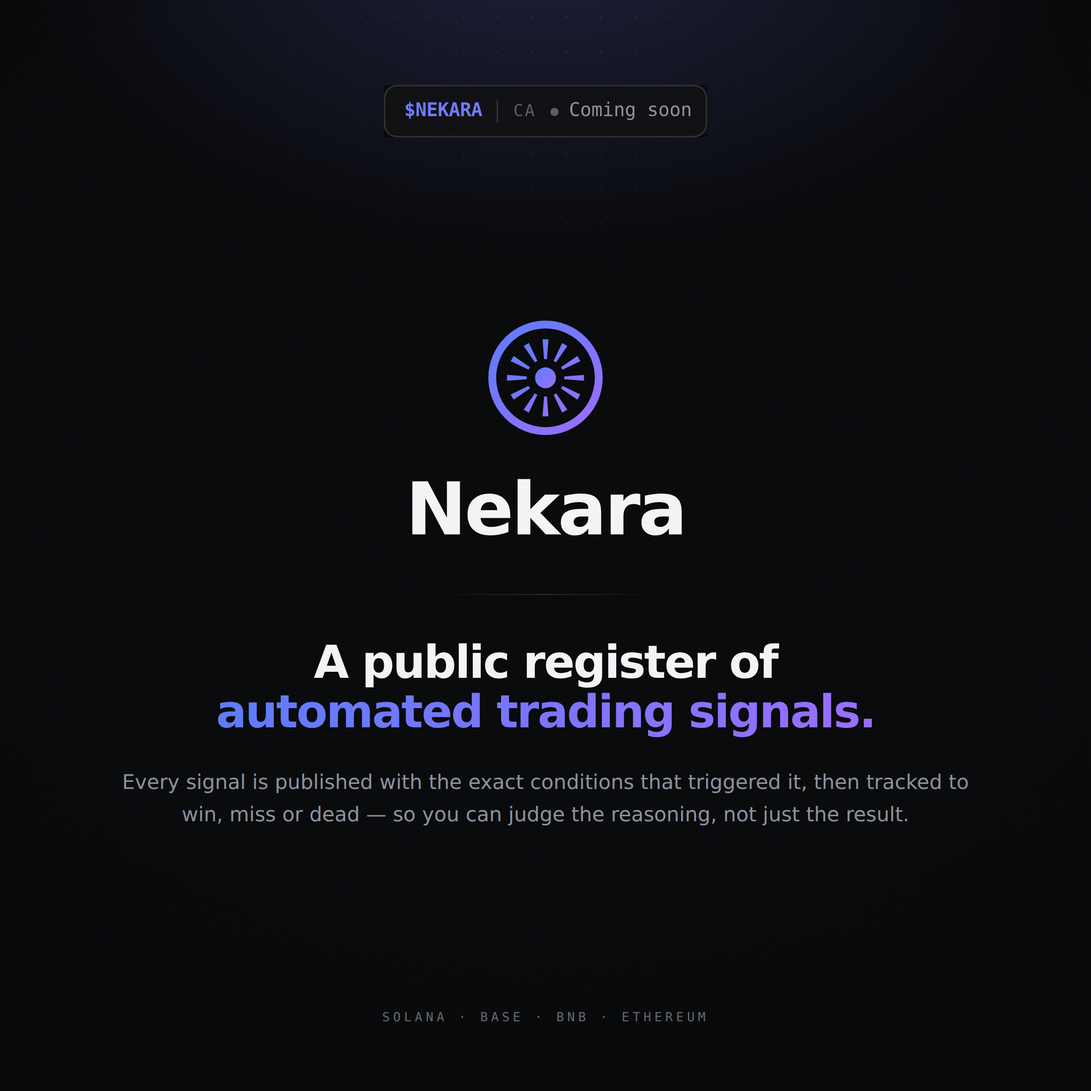
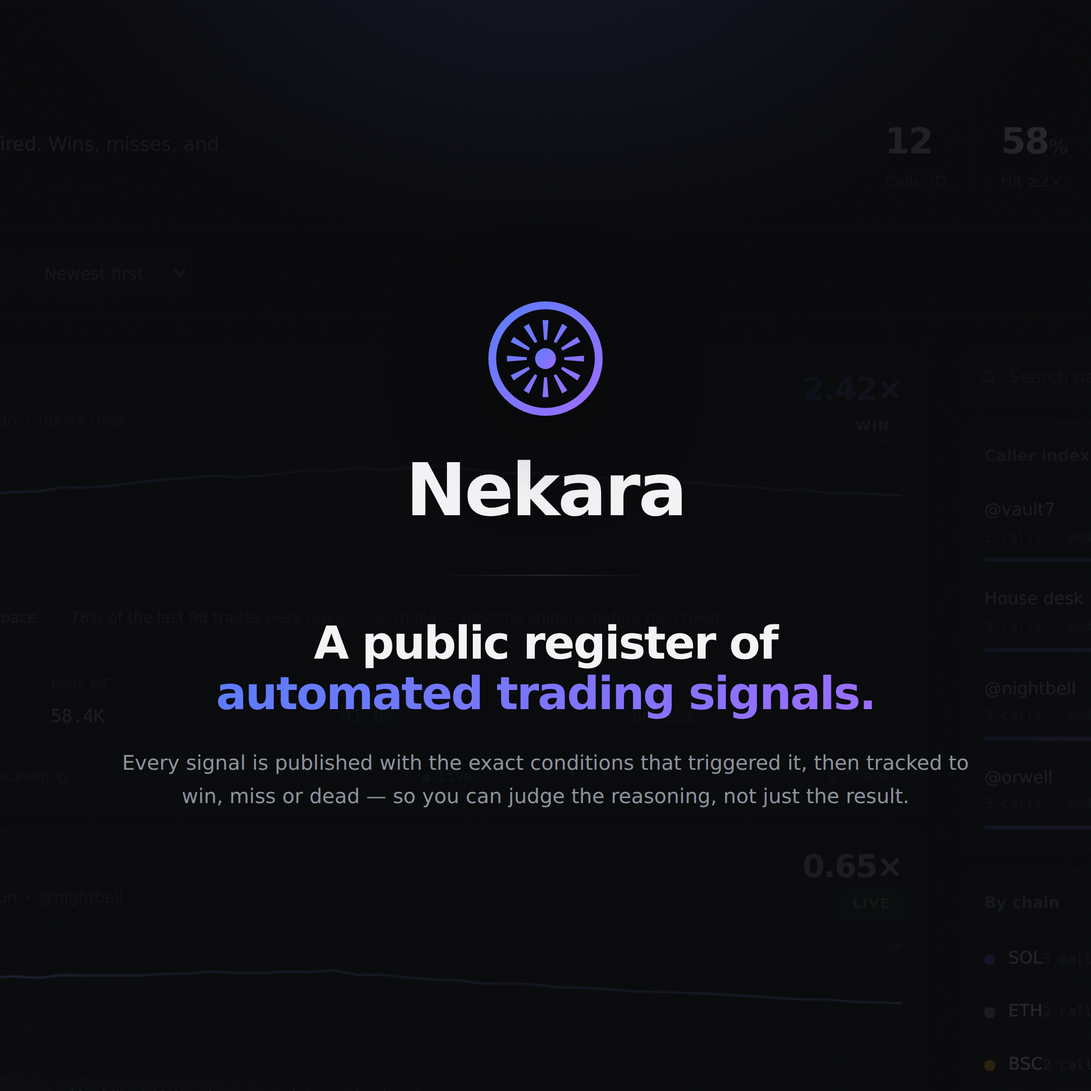
brand: the register runs behind the opening post
The first post was type on a plain ground with a status chip, a ticker and a
chain list stacked around it. All three come off, and the register itself
becomes the ground.

The crop matters: framed on the whole page, the word "Register" sat in the
corner at nearly headline weight and pulled the eye off the mark. It is now
zoomed past the page heading into the call cards, so what reads behind the
lockup is multiples, verdicts and the caller index — texture with real content
in it, and nothing in it competing.

Claude-Session: https://claude.ai/code/session_016zWz5hmUVXVKpbXpns3J9C

diff --git a/brand/banners/p0-intro-square.html b/brand/banners/p0-intro-square.html
@@ -36,17 +36,16 @@ h1,h2{font-family:var(--display);font-weight:600;letter-spacing:-.032em;line-hei
 .vig{position:absolute;inset:0;pointer-events:none;
  background:radial-gradient(125% 105% at 50% 38%,transparent 42%,rgba(0,0,0,.55))}
 </style><style>body{width:1080px;height:1080px}</style>
-<div class="aur"></div><div class="dots"></div>
+<div style="position:absolute;inset:0;background:url('file:///home/user/mintnft/brand/shots/pv-reg.png') center 58%/175% auto no-repeat"></div>
+<div style="position:absolute;inset:0;background:radial-gradient(94% 88% at 50% 50%,rgba(8,9,11,.955) 22%,rgba(8,9,11,.90) 58%,rgba(8,9,11,.74))"></div>
+<div class="aur" style="opacity:.55"></div>
 <div style="position:absolute;inset:0;padding:84px 74px 66px;
-  display:flex;flex-direction:column;align-items:center;text-align:center">
-  <img src="file:///home/user/mintnft/brand/shots/n-cabar.png" style="width:320px;display:block">
-  <div style="flex:1;display:flex;flex-direction:column;align-items:center;justify-content:center">
-    <div style="width:124px"><svg viewBox="0 0 120 120" fill="none"><defs><linearGradient id="lg" x1="0" y1="0" x2="1" y2="1"><stop stop-color="#5B7CFA"/><stop offset="1" stop-color="#9B6DFF"/></linearGradient></defs><circle cx="60" cy="60" r="51" stroke="url(#lg)" stroke-width="7.5"/><path d="M57.16 23.11L62.84 23.11L61.38 42.05L58.62 42.05ZM75.99 26.63L80.9 29.47L70.17 45.15L67.78 43.77ZM90.53 39.1L93.37 44.01L76.23 52.22L74.85 49.83ZM96.89 57.16L96.89 62.84L77.95 61.38L77.95 58.62ZM93.37 75.99L90.53 80.9L74.85 70.17L76.23 67.78ZM80.9 90.53L75.99 93.37L67.78 76.23L70.17 74.85ZM62.84 96.89L57.16 96.89L58.62 77.95L61.38 77.95ZM44.01 93.37L39.1 90.53L49.83 74.85L52.22 76.23ZM29.47 80.9L26.63 75.99L43.77 67.78L45.15 70.17ZM23.11 62.84L23.11 57.16L42.05 58.62L42.05 61.38ZM26.63 44.01L29.47 39.1L45.15 49.83L43.77 52.22ZM39.1 29.47L44.01 26.63L52.22 43.77L49.83 45.15Z" fill="url(#lg)"/><circle cx="60" cy="60" r="10" fill="url(#lg)"/></svg></div>
-    <div style="font-family:var(--display);font-weight:600;letter-spacing:-.03em;
-      font-size:72px;margin-top:26px">Nekara</div>
-    <div class="rule" style="width:220px;margin:42px 0"></div>
-    <h1 style="font-size:45px;line-height:1.1">A public register of<br><span class="grad-tx">automated trading signals.</span></h1>
-    <p style="font-size:20px;line-height:1.64;color:var(--tx-2);max-width:860px;margin-top:28px">Every signal is published with the exact conditions that triggered it, then tracked to win, miss or dead — so you can judge the reasoning, not just the result.</p>
-  </div>
-  <div class="eyebrow">Solana · Base · BNB · Ethereum</div>
-</div><div class="vig"></div><div class="grain"></div>
+  display:flex;flex-direction:column;align-items:center;justify-content:center;text-align:center">
+  <div style="width:124px;filter:drop-shadow(0 18px 46px rgba(0,0,0,.85))"><svg viewBox="0 0 120 120" fill="none"><defs><linearGradient id="lg" x1="0" y1="0" x2="1" y2="1"><stop stop-color="#5B7CFA"/><stop offset="1" stop-color="#9B6DFF"/></linearGradient></defs><circle cx="60" cy="60" r="51" stroke="url(#lg)" stroke-width="7.5"/><path d="M57.16 23.11L62.84 23.11L61.38 42.05L58.62 42.05ZM75.99 26.63L80.9 29.47L70.17 45.15L67.78 43.77ZM90.53 39.1L93.37 44.01L76.23 52.22L74.85 49.83ZM96.89 57.16L96.89 62.84L77.95 61.38L77.95 58.62ZM93.37 75.99L90.53 80.9L74.85 70.17L76.23 67.78ZM80.9 90.53L75.99 93.37L67.78 76.23L70.17 74.85ZM62.84 96.89L57.16 96.89L58.62 77.95L61.38 77.95ZM44.01 93.37L39.1 90.53L49.83 74.85L52.22 76.23ZM29.47 80.9L26.63 75.99L43.77 67.78L45.15 70.17ZM23.11 62.84L23.11 57.16L42.05 58.62L42.05 61.38ZM26.63 44.01L29.47 39.1L45.15 49.83L43.77 52.22ZM39.1 29.47L44.01 26.63L52.22 43.77L49.83 45.15Z" fill="url(#lg)"/><circle cx="60" cy="60" r="10" fill="url(#lg)"/></svg></div>
+  <div style="font-family:var(--display);font-weight:600;letter-spacing:-.03em;
+    font-size:72px;margin-top:26px">Nekara</div>
+  <div class="rule" style="width:220px;margin:42px 0"></div>
+  <h1 style="font-size:45px;line-height:1.1">A public register of<br><span class="grad-tx">automated trading signals.</span></h1>
+  <p style="font-size:20px;line-height:1.64;color:var(--tx-2);max-width:860px;margin-top:28px">Every signal is published with the exact conditions that triggered it, then tracked to win, miss or dead — so you can judge the reasoning, not just the result.</p>
+</div>
+<div class="grain"></div>

diff --git a/brand/banners/p0-intro.html b/brand/banners/p0-intro.html
@@ -36,17 +36,16 @@ h1,h2{font-family:var(--display);font-weight:600;letter-spacing:-.032em;line-hei
 .vig{position:absolute;inset:0;pointer-events:none;
  background:radial-gradient(125% 105% at 50% 38%,transparent 42%,rgba(0,0,0,.55))}
 </style><style>body{width:1600px;height:900px}</style>
-<div class="aur"></div><div class="dots"></div>
+<div style="position:absolute;inset:0;background:url('file:///home/user/mintnft/brand/shots/pv-reg.png') center 58%/138% auto no-repeat"></div>
+<div style="position:absolute;inset:0;background:radial-gradient(94% 88% at 50% 50%,rgba(8,9,11,.955) 22%,rgba(8,9,11,.90) 58%,rgba(8,9,11,.74))"></div>
+<div class="aur" style="opacity:.55"></div>
 <div style="position:absolute;inset:0;padding:72px 74px 58px;
-  display:flex;flex-direction:column;align-items:center;text-align:center">
-  <img src="file:///home/user/mintnft/brand/shots/n-cabar.png" style="width:300px;display:block">
-  <div style="flex:1;display:flex;flex-direction:column;align-items:center;justify-content:center">
-    <div style="width:116px"><svg viewBox="0 0 120 120" fill="none"><defs><linearGradient id="lg" x1="0" y1="0" x2="1" y2="1"><stop stop-color="#5B7CFA"/><stop offset="1" stop-color="#9B6DFF"/></linearGradient></defs><circle cx="60" cy="60" r="51" stroke="url(#lg)" stroke-width="7.5"/><path d="M57.16 23.11L62.84 23.11L61.38 42.05L58.62 42.05ZM75.99 26.63L80.9 29.47L70.17 45.15L67.78 43.77ZM90.53 39.1L93.37 44.01L76.23 52.22L74.85 49.83ZM96.89 57.16L96.89 62.84L77.95 61.38L77.95 58.62ZM93.37 75.99L90.53 80.9L74.85 70.17L76.23 67.78ZM80.9 90.53L75.99 93.37L67.78 76.23L70.17 74.85ZM62.84 96.89L57.16 96.89L58.62 77.95L61.38 77.95ZM44.01 93.37L39.1 90.53L49.83 74.85L52.22 76.23ZM29.47 80.9L26.63 75.99L43.77 67.78L45.15 70.17ZM23.11 62.84L23.11 57.16L42.05 58.62L42.05 61.38ZM26.63 44.01L29.47 39.1L45.15 49.83L43.77 52.22ZM39.1 29.47L44.01 26.63L52.22 43.77L49.83 45.15Z" fill="url(#lg)"/><circle cx="60" cy="60" r="10" fill="url(#lg)"/></svg></div>
-    <div style="font-family:var(--display);font-weight:600;letter-spacing:-.03em;
-      font-size:66px;margin-top:26px">Nekara</div>
-    <div class="rule" style="width:220px;margin:36px 0"></div>
-    <h1 style="font-size:44px;line-height:1.1">A public register of<br><span class="grad-tx">automated trading signals.</span></h1>
-    <p style="font-size:19px;line-height:1.64;color:var(--tx-2);max-width:830px;margin-top:28px">Every signal is published with the exact conditions that triggered it, then tracked to win, miss or dead — so you can judge the reasoning, not just the result.</p>
-  </div>
-  <div class="eyebrow">Solana · Base · BNB · Ethereum</div>
-</div><div class="vig"></div><div class="grain"></div>
+  display:flex;flex-direction:column;align-items:center;justify-content:center;text-align:center">
+  <div style="width:116px;filter:drop-shadow(0 18px 46px rgba(0,0,0,.85))"><svg viewBox="0 0 120 120" fill="none"><defs><linearGradient id="lg" x1="0" y1="0" x2="1" y2="1"><stop stop-color="#5B7CFA"/><stop offset="1" stop-color="#9B6DFF"/></linearGradient></defs><circle cx="60" cy="60" r="51" stroke="url(#lg)" stroke-width="7.5"/><path d="M57.16 23.11L62.84 23.11L61.38 42.05L58.62 42.05ZM75.99 26.63L80.9 29.47L70.17 45.15L67.78 43.77ZM90.53 39.1L93.37 44.01L76.23 52.22L74.85 49.83ZM96.89 57.16L96.89 62.84L77.95 61.38L77.95 58.62ZM93.37 75.99L90.53 80.9L74.85 70.17L76.23 67.78ZM80.9 90.53L75.99 93.37L67.78 76.23L70.17 74.85ZM62.84 96.89L57.16 96.89L58.62 77.95L61.38 77.95ZM44.01 93.37L39.1 90.53L49.83 74.85L52.22 76.23ZM29.47 80.9L26.63 75.99L43.77 67.78L45.15 70.17ZM23.11 62.84L23.11 57.16L42.05 58.62L42.05 61.38ZM26.63 44.01L29.47 39.1L45.15 49.83L43.77 52.22ZM39.1 29.47L44.01 26.63L52.22 43.77L49.83 45.15Z" fill="url(#lg)"/><circle cx="60" cy="60" r="10" fill="url(#lg)"/></svg></div>
+  <div style="font-family:var(--display);font-weight:600;letter-spacing:-.03em;
+    font-size:66px;margin-top:26px">Nekara</div>
+  <div class="rule" style="width:220px;margin:36px 0"></div>
+  <h1 style="font-size:44px;line-height:1.1">A public register of<br><span class="grad-tx">automated trading signals.</span></h1>
+  <p style="font-size:19px;line-height:1.64;color:var(--tx-2);max-width:830px;margin-top:28px">Every signal is published with the exact conditions that triggered it, then tracked to win, miss or dead — so you can judge the reasoning, not just the result.</p>
+</div>
+<div class="grain"></div>

diff --git a/brand/mkbanners.js b/brand/mkbanners.js
@@ -126,23 +126,23 @@ fs.writeFileSync('brand/banners/b4-square.html', page(1080,1080,`
    only has to land the name and say it is not open yet, so the mark carries it
    and the "coming soon" marker is the site's own nav chip rather than a badge
    invented for a banner. */
-const intro=(w,h,markPx,wordPx,headPx,chipPx)=>page(w,h,`
+const intro=(w,h,markPx,wordPx,headPx)=>`${BASE}<style>body{width:${w}px;height:${h}px}</style>
+<div style="position:absolute;inset:0;background:url('${SHOT('pv-reg.png')}') center 58%/${h>1000?"175%":"138%"} auto no-repeat"></div>
+<div style="position:absolute;inset:0;background:radial-gradient(94% 88% at 50% 50%,rgba(8,9,11,.955) 22%,rgba(8,9,11,.90) 58%,rgba(8,9,11,.74))"></div>
+<div class="aur" style="opacity:.55"></div>
 <div style="position:absolute;inset:0;padding:${h>1000?84:72}px 74px ${h>1000?66:58}px;
-  display:flex;flex-direction:column;align-items:center;text-align:center">
-  <img src="${SHOT('n-cabar.png')}" style="width:${chipPx}px;display:block">
-  <div style="flex:1;display:flex;flex-direction:column;align-items:center;justify-content:center">
-    <div style="width:${markPx}px">${MARK}</div>
-    <div style="font-family:var(--display);font-weight:600;letter-spacing:-.03em;
-      font-size:${wordPx}px;margin-top:26px">Nekara</div>
-    <div class="rule" style="width:220px;margin:${h>1000?42:36}px 0"></div>
-    <h1 style="font-size:${headPx}px;line-height:1.1">A public register of<br><span class="grad-tx">automated trading signals.</span></h1>
-    <p style="font-size:${h>1000?20:19}px;line-height:1.64;color:var(--tx-2);max-width:${h>1000?860:830}px;margin-top:28px">Every signal is published with the exact conditions that triggered it, then tracked to win, miss or dead — so you can judge the reasoning, not just the result.</p>
-  </div>
-  <div class="eyebrow">Solana · Base · BNB · Ethereum</div>
-</div>`);
+  display:flex;flex-direction:column;align-items:center;justify-content:center;text-align:center">
+  <div style="width:${markPx}px;filter:drop-shadow(0 18px 46px rgba(0,0,0,.85))">${MARK}</div>
+  <div style="font-family:var(--display);font-weight:600;letter-spacing:-.03em;
+    font-size:${wordPx}px;margin-top:26px">Nekara</div>
+  <div class="rule" style="width:220px;margin:${h>1000?42:36}px 0"></div>
+  <h1 style="font-size:${headPx}px;line-height:1.1">A public register of<br><span class="grad-tx">automated trading signals.</span></h1>
+  <p style="font-size:${h>1000?20:19}px;line-height:1.64;color:var(--tx-2);max-width:${h>1000?860:830}px;margin-top:28px">Every signal is published with the exact conditions that triggered it, then tracked to win, miss or dead — so you can judge the reasoning, not just the result.</p>
+</div>
+<div class="grain"></div>`;
 
-fs.writeFileSync('brand/banners/p0-intro.html', intro(1600,900,116,66,44,300));
-fs.writeFileSync('brand/banners/p0-intro-square.html', intro(1080,1080,124,72,45,320));
+fs.writeFileSync('brand/banners/p0-intro.html', intro(1600,900,116,66,44));
+fs.writeFileSync('brand/banners/p0-intro-square.html', intro(1080,1080,124,72,45));
 
 /* ── posts ─────────────────────────────────────────────────────────────── */
 

diff --git a/brand/README.md b/brand/README.md
@@ -58,8 +58,8 @@ point `CHROME` at one if it is not at the default path.
 | `b3-method.png` | 1600×900 | the register: a win and a dead call side by side |
 | `b4-square.png` | 1080×1080 | Telegram and Instagram |
 
-The opening post. No product shot — it only has to land the name and say the
-contract is not out yet, and it borrows the site's own nav chip to say it.
+The opening post. The register runs behind it, scrimmed back far enough that
+only the mark and the name carry — no chip, no ticker, no chain list.
 
 | File | Size | Where it goes |
 |---|---|---|
